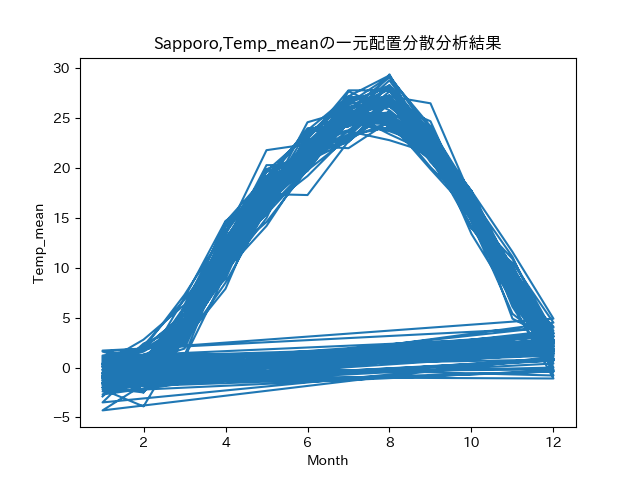
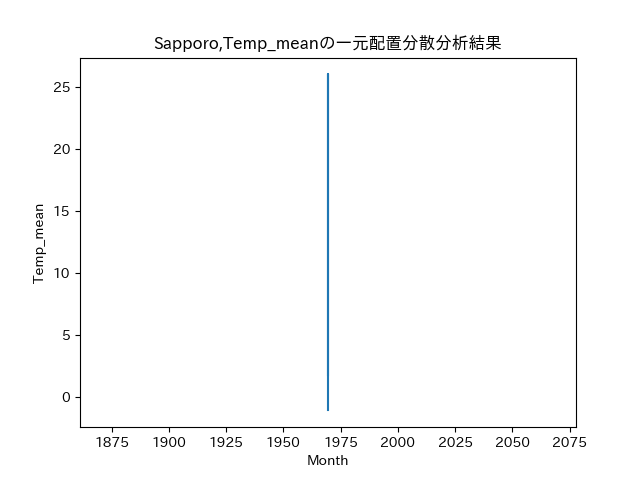
2022/01/14-19:28:17

diff --git a/Lesson04/En0406/En0406.py b/Lesson04/En0406/En0406.py
@@ -34,7 +34,7 @@ def result():
 
     result = weather.query(
         " Year >= 1960 & Year < 1980").groupby('Month').mean()
-    print(result[data])
+    print(result.columns)
 
     g_f = weather.query(" Year >= 1960 & Year < 1980")[data]
     g_s = weather.query(" Year >= 1980 & Year < 2000")[data]
@@ -46,7 +46,7 @@ def result():
                 g_f, g_s, g_t)
     title = f"{area},{data}の一元配置分散分析結果"
     path = "/static/En0406.png"
-    plt.plot(result['Year'], result[data])
+    plt.plot(result.columns, result[data])
     plt.title(title)
     plt.xlabel("Month")
     plt.ylabel(data)
